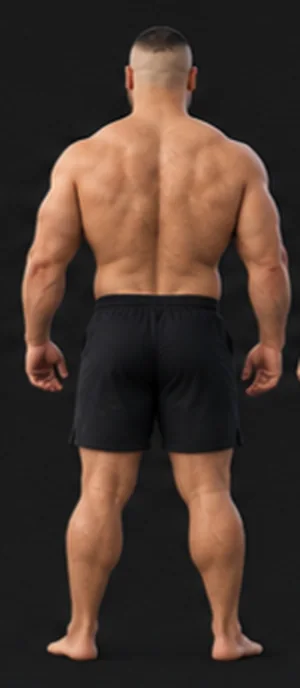
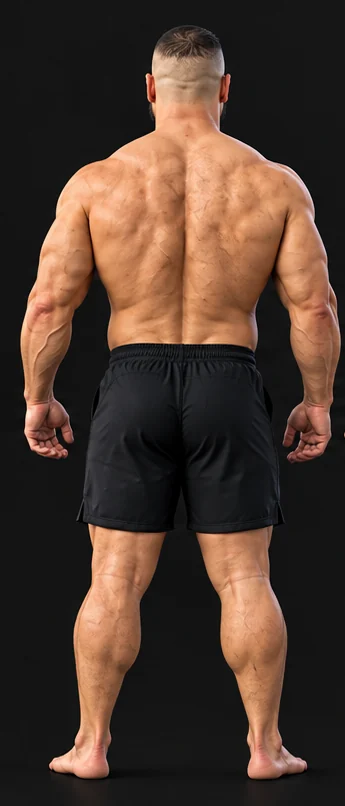
Body map: higher-resolution photo (front/back) with re-fitted muscle zones
Claude-Session: https://claude.ai/code/session_01MY5wq36Kgx4C3Uag56fdmc

diff --git a/src/components/BodyMap.tsx b/src/components/BodyMap.tsx
@@ -3,38 +3,38 @@ import { useState } from "react";
 import { MUSCLE_LABEL, type Muscle } from "@/lib/exercise-meta";
 
 type Shape = { g: Muscle; p: string };
-const FRONT_VIEW = { w: 170, h: 344, src: "/body/front.webp" };
-const BACK_VIEW = { w: 150, h: 344, src: "/body/back.webp" };
+const FRONT_VIEW = { w: 390, h: 806, src: "/body/front.webp" };
+const BACK_VIEW = { w: 345, h: 806, src: "/body/back.webp" };
 
 // Clickable zones are drawn over the photo (coordinates are in photo pixels).
 const FRONT: Shape[] = [
-  { g: "chest", p: "50,76 62,70 80,72 80,100 70,110 55,108 48,95" },
-  { g: "chest", p: "84,72 104,70 120,78 122,98 115,108 100,110 84,100" },
-  { g: "shoulders", p: "36,80 48,70 58,74 52,92 46,108 32,100" },
-  { g: "shoulders", p: "118,74 130,70 142,80 145,100 134,108 124,92" },
-  { g: "biceps", p: "30,108 46,104 50,120 46,140 32,142 26,125" },
-  { g: "biceps", p: "124,104 140,108 148,125 142,142 128,140 122,120" },
-  { g: "forearms", p: "26,144 44,142 42,165 32,190 14,190 14,165" },
-  { g: "forearms", p: "126,142 144,144 156,165 156,190 138,190 128,165" },
-  { g: "abs", p: "64,112 108,112 108,150 64,150" },
-  { g: "quads", p: "46,226 88,226 88,248 82,268 60,270 46,252" },
-  { g: "quads", p: "92,226 128,228 128,252 114,270 96,268 92,248" },
-  { g: "calves", p: "50,274 76,272 74,296 66,318 52,318 48,296" },
-  { g: "calves", p: "96,272 122,274 124,296 120,318 104,318 96,296" },
+  { g: "chest", p: "110,195 140,178 200,185 200,248 170,266 128,262 108,235" },
+  { g: "chest", p: "205,185 262,178 290,195 292,235 270,262 230,266 205,248" },
+  { g: "shoulders", p: "72,200 88,170 118,158 122,185 106,225 98,262 66,258" },
+  { g: "shoulders", p: "318,200 302,170 272,158 268,185 284,225 292,262 322,258" },
+  { g: "biceps", p: "66,262 98,266 102,300 92,340 60,345 50,305" },
+  { g: "biceps", p: "322,262 292,266 288,300 298,340 332,345 342,305" },
+  { g: "forearms", p: "58,348 92,345 86,390 66,440 62,465 28,455 26,410 38,375" },
+  { g: "forearms", p: "332,348 298,345 304,390 324,440 328,465 362,455 364,410 352,375" },
+  { g: "abs", p: "148,272 242,272 246,345 196,356 146,345" },
+  { g: "quads", p: "102,530 190,530 190,560 178,615 130,632 100,600" },
+  { g: "quads", p: "212,530 296,530 298,600 268,640 224,615 212,560" },
+  { g: "calves", p: "98,640 160,632 158,690 140,740 104,742 92,690" },
+  { g: "calves", p: "240,632 298,640 302,690 292,742 256,740 238,690" },
 ];
 const BACK: Shape[] = [
-  { g: "back", p: "55,66 85,62 109,70 115,94 109,128 101,146 55,146 47,126 45,94" },
-  { g: "shoulders", p: "29,80 41,70 49,76 45,96 39,108 27,100" },
-  { g: "shoulders", p: "109,76 119,70 133,80 135,100 125,108 115,94" },
-  { g: "triceps", p: "21,104 39,100 45,114 39,140 25,144 15,128" },
-  { g: "triceps", p: "117,104 133,108 143,126 135,144 121,140 115,118" },
-  { g: "forearms", p: "17,144 37,140 35,166 27,196 11,192 11,166" },
-  { g: "forearms", p: "121,142 139,144 145,166 143,194 127,196 121,166" },
-  { g: "glutes", p: "48,156 108,156 113,200 109,222 49,222 43,200" },
-  { g: "hamstrings", p: "41,226 81,226 83,248 77,262 55,264 39,248" },
-  { g: "hamstrings", p: "85,226 123,228 125,250 111,264 91,262 85,248" },
-  { g: "calves", p: "37,266 69,264 71,284 63,306 43,306 33,284" },
-  { g: "calves", p: "89,264 121,266 127,284 119,306 99,306 89,284" },
+  { g: "back", p: "118,168 190,150 262,168 274,235 262,310 246,346 134,346 106,310 96,235" },
+  { g: "shoulders", p: "68,215 90,175 118,160 124,190 106,235 98,268 64,262" },
+  { g: "shoulders", p: "312,215 290,175 262,160 256,190 274,235 282,268 316,262" },
+  { g: "triceps", p: "62,268 96,272 100,305 90,345 54,350 42,310" },
+  { g: "triceps", p: "318,268 284,272 280,305 290,345 326,350 338,310" },
+  { g: "forearms", p: "52,352 90,346 84,390 70,435 62,458 28,450 26,410 36,375" },
+  { g: "forearms", p: "326,352 290,346 296,390 308,435 316,458 340,448 340,410 332,375" },
+  { g: "glutes", p: "108,400 272,400 280,470 274,522 104,522 94,470" },
+  { g: "hamstrings", p: "94,528 186,530 186,560 172,610 128,625 92,600" },
+  { g: "hamstrings", p: "204,530 280,528 290,600 258,625 214,610 204,560" },
+  { g: "calves", p: "92,625 165,625 168,690 148,745 102,745 78,690" },
+  { g: "calves", p: "232,625 300,625 304,690 290,745 250,745 228,690" },
 ];
 
 export function BodyMap({ view, active, onPick }: { view: "front" | "back"; active: Muscle | null; onPick: (g: Muscle) => void }) {
@@ -42,7 +42,7 @@ export function BodyMap({ view, active, onPick }: { view: "front" | "back"; acti
   const v = view === "front" ? FRONT_VIEW : BACK_VIEW;
   const shapes = view === "front" ? FRONT : BACK;
   return (
-    <svg viewBox={`0 0 ${v.w} ${v.h}`} className="mx-auto h-[420px] w-auto rounded-2xl bg-[#1c1c1e]" role="img" aria-label="خريطة الجسم">
+    <svg viewBox={`0 0 ${v.w} ${v.h}`} className="mx-auto h-[420px] w-auto rounded-2xl bg-[#101011]" role="img" aria-label="خريطة الجسم">
       <image href={v.src} width={v.w} height={v.h} />
       {shapes.map((s, i) => {
         const on = active === s.g;
